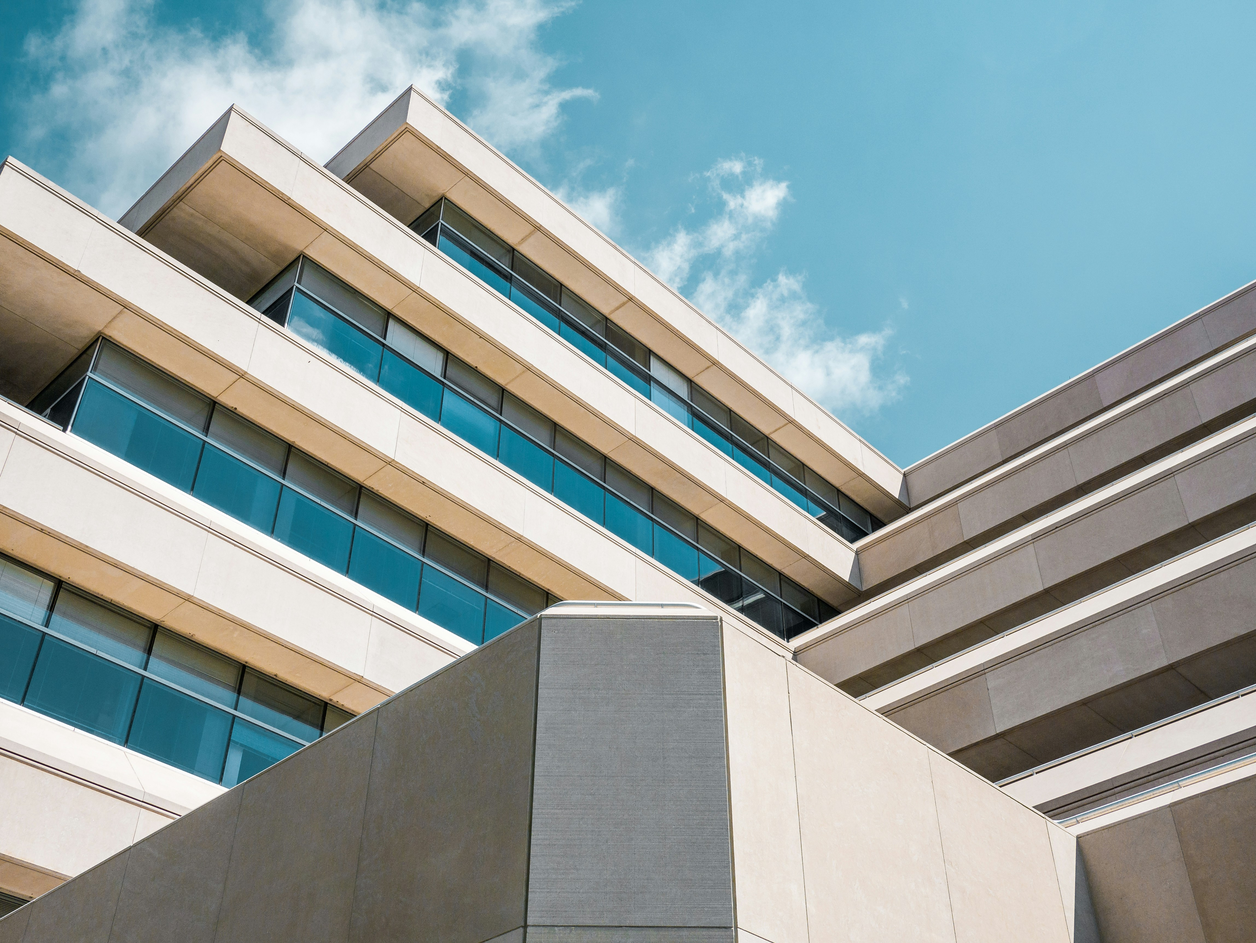
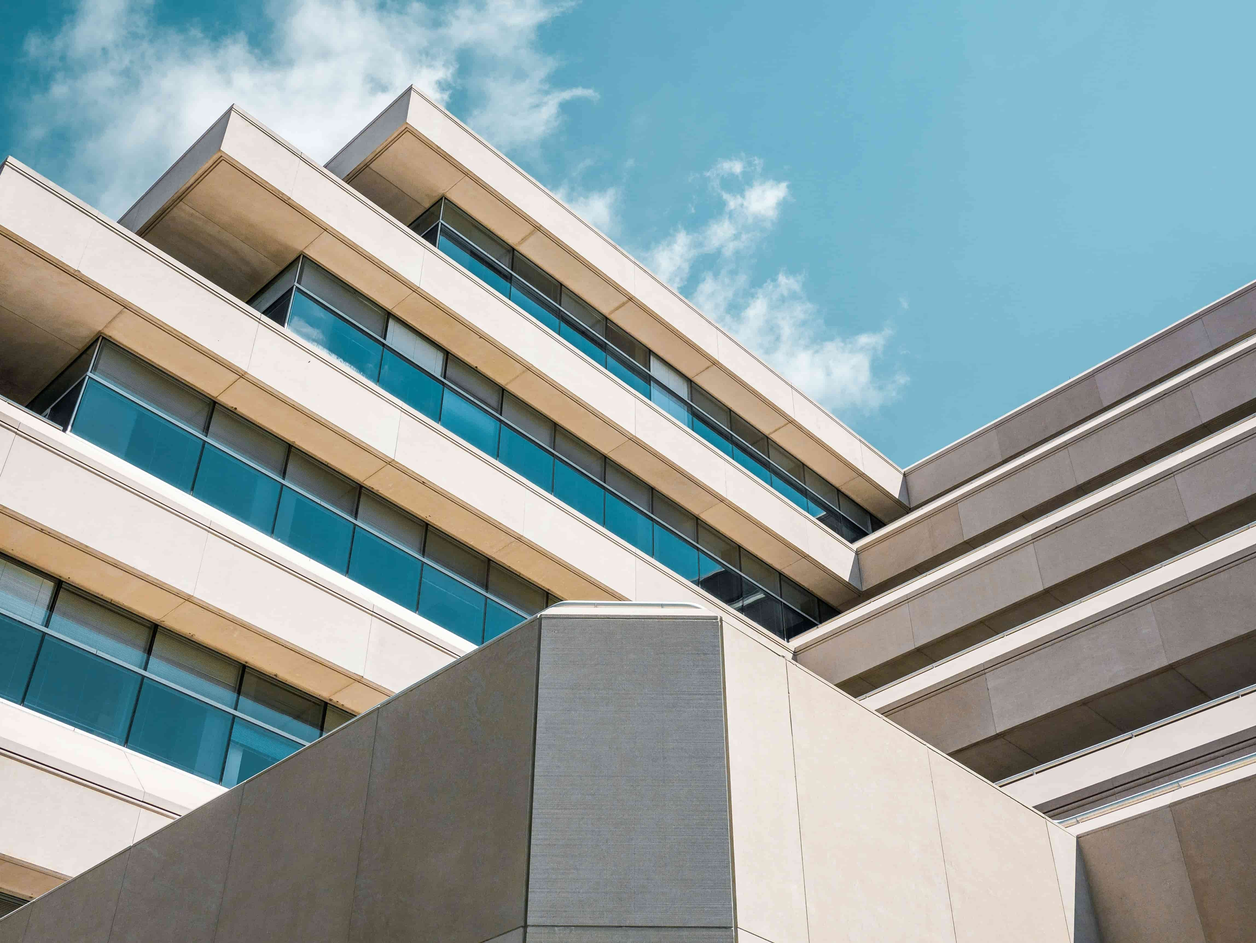
Optimized media - Added footer
Reduced all image's size.
Finished desktop landing page (pending responsive).
Created Footer and added it to Layout.

Fixed animations.

diff --git a/src/pages/Landing.tsx b/src/pages/Landing.tsx
@@ -23,7 +23,7 @@ const Landing = () => {
   const [isHovered, setIsHovered] = useState(0);
 
   const projectHover = (
-    <span className="absolute top-0 left-0 size-full flex flex-col justify-center gap-4">
+    <span className="absolute top-0 left-0 size-full flex flex-col justify-center gap-4 animate-fade-in">
       <div className="bg-black opacity-50 size-full absolute"></div>
       <p className="w-min text-6xl text-white font-semibold z-10 pl-12">
         Sample Project
@@ -93,7 +93,7 @@ const Landing = () => {
         </div>
       </div>
 
-      <div className=" flex gap-x-16 relative mb-20">
+      <div className="relative mb-20 flex gap-x-16">
         <div className="w-full h-[90%] bg-gray-50 absolute top-0 left-0"></div>
 
         <div className="w-2/4 h-[500px] relative">
@@ -158,7 +158,7 @@ const Landing = () => {
       <div className="mb-20 flex flex-col gap-y-8">
         <h2 className="text-7xl font-light opacity-30">Our Projects</h2>
 
-        <div className="grid grid-cols-4 gap-4 [&>*]:h-72 [&>*]:w-full [&>*]:bg-cover [&>*]:relative [&>*]:cursor-pointer">
+        <div className="grid grid-cols-4 gap-4 [&>*]:h-72 [&>*]:w-full [&>*]:bg-cover [&>*]:bg-center [&>*]:relative [&>*]:cursor-pointer">
           {/* Top two images */}
           <div
             className="bg-project-1 col-span-2"
@@ -201,11 +201,66 @@ const Landing = () => {
           </div>
         </div>
 
-        <button className="w-fit flex items-center gap-x-4 bg-gray-800 text-white px-10 py-7 self-end uppercase tracking-widest cursor-pointer group">
-          <p className="group-hover:drop-shadow-[0_0_5px_rgba(255,255,255,1)]">
+        <button className="w-fit flex items-center gap-x-4 bg-neutral-800 text-white px-10 py-7 self-end uppercase tracking-widest cursor-pointer group">
+          <p className="group-hover:drop-shadow-[0_0_5px_rgba(255,255,255,1)] group-hover:ease-out duration-300">
             All projects
           </p>{" "}
-          <span className="group-hover:drop-shadow-[0_0_5px_rgba(255,255,255,1)]">
+          <span className="group-hover:drop-shadow-[0_0_5px_rgba(255,255,255,1)] group-hover:ease-out duration-300">
+            <GoArrowRight />
+          </span>
+        </button>
+      </div>
+
+      <div className="flex flex-col gap-y-8 mb-20">
+        <h2 className="text-7xl font-light opacity-30">Contact us</h2>
+
+        <div className="h-[500px] flex items-center gap-8 mb-10">
+          <form className="flex flex-col gap-y-4 basis-1/3 h-full">
+            <input
+              type="text"
+              name="name"
+              className=" px-4 py-3 bg-gray-200 border border-transparent placeholder-gray-500 focus:outline-none focus:border-gray-500"
+              placeholder="Name"
+            />
+
+            <input
+              required
+              type="tel"
+              name="phone"
+              className=" px-4 py-3 bg-gray-200 border border-transparent placeholder-gray-500 focus:outline-none focus:border-gray-500"
+              placeholder="Phone Number"
+            />
+
+            <input
+              required
+              type="email"
+              name="email"
+              className=" px-4 py-3 bg-gray-200 border border-transparent placeholder-gray-500 focus:outline-none focus:border-gray-500"
+              placeholder="E-mail"
+            />
+
+            <input
+              type="text"
+              name="interest"
+              className=" px-4 py-3 bg-gray-200 border border-transparent placeholder-gray-500 focus:outline-none focus:border-gray-500"
+              placeholder="Interested In"
+            />
+
+            <textarea
+              required
+              className="h-full bg-gray-200 border border-transparent placeholder-gray-500 focus:outline-none focus:border-gray-500"
+              placeholder="   Message"
+            ></textarea>
+          </form>
+
+          <div className="bg-[url('/assets/images/contact-image.jpg')] basis-2/3 h-full bg-no-repeat bg-cover bg-center"></div>
+        </div>
+
+        <button className="w-fit px-14 py-7 flex items-center gap-x-4 bg-neutral-800 text-white uppercase tracking-widest cursor-pointer group">
+          <p className="group-hover:drop-shadow-[0_0_5px_rgba(255,255,255,1)] group-hover:ease-out duration-300">
+            Send email
+          </p>{" "}
+          <span className="group-hover:drop-shadow-[0_0_5px_rgba(255,255,255,1)] group-hover:ease-out duration-300">
             <GoArrowRight />
           </span>
         </button>

diff --git a/src/layout/Footer.tsx b/src/layout/Footer.tsx
@@ -1,0 +1,78 @@
+import {
+  IoLocationOutline,
+  IoCallOutline,
+  IoMailOutline,
+  IoLogoFacebook,
+  IoLogoTwitter,
+  IoLogoLinkedin,
+  IoLogoPinterest,
+} from "react-icons/io5";
+
+const Footer = () => {
+  return (
+    <div className="bg-neutral-800 text-white">
+      <div className="flex gap-60 py-10 px-48">
+        <img
+          className="w-40 max-h-32"
+          src="/assets/images/footer-logo.png"
+          alt="Logo"
+        />
+
+        <ul className="flex flex-col gap-8 [&>*]:font-semibold">
+          <p className="text-xl">Information</p>
+          <li>Main</li>
+          <li>Gallery</li>
+          <li>Projects</li>
+          <li>Certifications</li>
+          <li>Contacts</li>
+        </ul>
+
+        <div className="mr-auto flex flex-col gap-8 [&>*]:font-semibold">
+          <p className="text-xl">Contacts</p>
+
+          <p className="flex gap-x-4 mb-4">
+            <span className="text-2xl">
+              <IoLocationOutline />
+            </span>{" "}
+            Sample Street
+            <br />
+            Austin Texas 78704
+          </p>
+
+          <p className="flex gap-x-4">
+            <span className="text-2xl">
+              <IoCallOutline />
+            </span>
+            512 33345587
+          </p>
+
+          <p className="flex gap-x-4">
+            <span className="text-2xl">
+              <IoMailOutline />
+            </span>
+            samplemail@gmail.com
+          </p>
+        </div>
+
+        <div className="flex flex-col gap-8 [&>*]:font-semibold">
+          <p className="text-xl">Social Media</p>
+
+          <div className="flex gap-x-8 [&>*]:text-3xl">
+            <IoLogoFacebook />
+            <IoLogoTwitter />
+            <IoLogoLinkedin />
+            <IoLogoPinterest />
+          </div>
+        </div>
+      </div>
+
+      <div className="py-5 border-t border-neutral-700">
+        <p className="text-neutral-500 text-center">
+          &copy; 2024 All Right Reserved
+        </p>
+      </div>
+    </div>
+  );
+};
+
+export default Footer;

diff --git a/tailwind.config.js b/tailwind.config.js
@@ -14,13 +14,18 @@ export default {
         'project-5': "url('/assets/images/project-5.jpg')",
       },
       keyframes: {
+        'fade-in': {
+          '0%': { opacity: '0'},
+          '100%': { opacity: '1'},
+        },
         'fade-in-left': {
           '0%': { opacity: '0', transform: 'translateX(-100px)' },
           '100%': { opacity: '1', transform: 'translateX(0)' },
         },
       },
-      animations: {
-        'fade-in-left': 'fade-in-left 1s ease-in-out',
+      animation: {
+        'fade-in': 'fade-in 0.3s ease-in-out',
+        'fade-in-left': 'fade-in-left 0.5s ease-in-out',
       }
     },
   },

diff --git a/src/layout/Layout.tsx b/src/layout/Layout.tsx
@@ -1,6 +1,7 @@
 import { Outlet } from "react-router-dom";
 
 import Navbar from "./Navbar";
+import Footer from "./Footer";
 
 const Layout = () => {
   return (
@@ -12,6 +13,10 @@ const Layout = () => {
       <main className="px-48">
         <Outlet />
       </main>
+
+      <footer>
+        <Footer />
+      </footer>
     </div>
   );
 };
